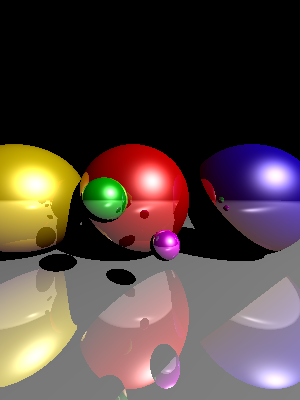
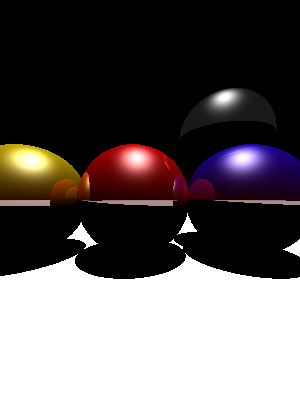
added

diff --git a/computer_graphics/ray_tracer_python/rt.py b/computer_graphics/ray_tracer_python/rt.py
@@ -1,12 +1,40 @@
 import numpy as np
 import matplotlib.pyplot as plt
 
-def normalize(vector):
-    return vector / np.linalg.norm(vector)
+
+class Sphere:
+  def __init__(self, center=(0.0, 0.0, 0.0), radius=1.0, ambient=(0.1, 0, 0), diffuse=(1, 1, 1), specular=(1, 1, 1), shininess=100, reflection=0.5):
+      self.center = np.array(list(center))
+      self.radius = radius 
+      self.ambient = np.array(list(ambient))
+      self.diffuse = np.array(list(diffuse))
+      self.specular = np.array(list(specular))
+      self.shininess = shininess
+      self.reflection = reflection
+
+  def __str__(self): pass 
+
+  @staticmethod
+  def run_tests(): pass 
 
 
-def reflected(vector, axis):
-    return vector - 2 * np.dot(vector, axis) * axis
+class Light:
+  def __init__(self, position=(0.0, 0.0, 0.0), ambient=(1, 1, 1), diffuse=(1, 1, 1), specular=(1, 1, 1)):
+      self.position = np.array(list(position))
+      self.ambient = np.array(list(ambient))
+      self.diffuse = np.array(list(diffuse))
+      self.specular = np.array(list(specular))
+
+  def __str__(self): pass 
+
+  @staticmethod
+  def run_tests(): pass 
+
+
+def normalize(vector): return vector / np.linalg.norm(vector)
+
+
+def reflected(vector, axis): return vector - 2 * np.dot(vector, axis) * axis
 
 
 def sphere_intersect(center, radius, ray_origin, ray_direction):
@@ -22,7 +50,15 @@ def sphere_intersect(center, radius, ray_origin, ray_direction):
 
 
 def nearest_intersected_object(objects, ray_origin, ray_direction):
-    distances = [sphere_intersect(obj['center'], obj['radius'], ray_origin, ray_direction) for obj in objects]
+    li = [1, 2, 3, 4]
+    li2 = []
+    for i in range(1, 5): 
+        li2.append(i) 
+    li3 = [x for x in range(1, 5)]
+    li4 = [x * x for x in range(1, 5)]   #  square of numbers from 1 to 4
+    li5 = [(x, x * x) for x in range(1, 5)]   # tuple of (x, x * x) for x from 1 to 4
+
+    distances = [sphere_intersect(obj.center, obj.radius, ray_origin, ray_direction) for obj in objects]
     nearest_object = None
     min_distance = np.inf
     for index, distance in enumerate(distances):
@@ -30,95 +66,105 @@ def nearest_intersected_object(objects, ray_origin, ray_direction):
             min_distance = distance
             nearest_object = objects[index]
     return nearest_object, min_distance
-class Sphere:
-    def __init__(self, center=(0.0, 0.0, 0.0), radius = 1.0, ambient = (0.1, 0, 0), diffuse, specular= (1, 1, 1), shininess, reflection):
-        self.center = np.array(list(center))
-        self.radius = radius
-        self.ambient = np.array(list(ambient))
-        self.diffuse = np.array(list(diffuse))
-        self.specular = np.array(list(specular))
-        self.shininess = shininess
-        self.reflection = reflection
-        pass
-#every python function gets a list a dictionary list of unamed parameters and dictionary of named parameters
-def ray_tracer(width=300, height =200):
 
-    max_depth = 3
 
-    camera = np.array([0, 0, 1])
-    ratio = float(width) / height
-    screen = (-1, 1 / ratio, 1, -1 / ratio) # left, top, right, bottom
+def ray_trace(width=300, height=200):
+  max_depth = 3
 
-    light = { 'position': np.array([5, 5, 5]), 'ambient': np.array([1, 1, 1]), 'diffuse': np.array([1, 1, 1]), 'specular': np.array([1, 1, 1]) }
+  camera = np.array([0, 0, 1])
+  ratio = float(width) / height
+  screen = (-1, 1 / ratio, 1, -1 / ratio) # left, top, right, bottom
 
-    objects = [
-        { 'center': np.array([-0.2, 0, -1]), 'radius': 0.7, 'ambient': np.array([0.1, 0, 0]), 'diffuse': np.array([0.7, 0, 0]), 'specular': np.array([1, 1, 1]), 'shininess': 100, 'reflection': 0.5 },
-        { 'center': np.array([1.2, 0, -1]), 'radius': 0.7, 'ambient': np.array([0.1, 0, 0]), 'diffuse': np.array([0.0, 0, 0.7]), 'specular': np.array([1, 1, 1]), 'shininess': 100, 'reflection': 0.5 },
-        { 'center': np.array([-1.6, 0, -1]), 'radius': 0.7, 'ambient': np.array([0.1, 0, 0]), 'diffuse': np.array([0.7, 0.7, 0]), 'specular': np.array([1, 1, 1]), 'shininess': 100, 'reflection': 0.5 },
+  light2 = Light(position=(5, 5, 5))
 
-        { 'center': np.array([0.1, -0.3, 0]), 'radius': 0.1, 'ambient': np.array([0.1, 0, 0.1]), 'diffuse': np.array([0.7, 0, 0.7]), 'specular': np.array([1, 1, 1]), 'shininess': 100, 'reflection': 0.5 },
-        { 'center': np.array([-0.3, 0, 0]), 'radius': 0.15, 'ambient': np.array([0, 0.1, 0]), 'diffuse': np.array([0, 0.6, 0]), 'specular': np.array([1, 1, 1]), 'shininess': 100, 'reflection': 0.5 },
-        { 'center': np.array([0, -9000, 0]), 'radius': 9000 - 0.7, 'ambient': np.array([0.1, 0.1, 0.1]), 'diffuse': np.array([0.6, 0.6, 0.6]), 'specular': np.array([1, 1, 1]), 'shininess': 100, 'reflection': 0.5 }
-    ]
 
-    image = np.zeros((height, width, 3))
-    print(f"{height} lines ", end=' ', flush=True)
-    for i, y in enumerate(np.linspace(screen[1], screen[3], height)):
-        for j, x in enumerate(np.linspace(screen[0], screen[2], width)):
-            # screen is on origin
-            pixel = np.array([x, y, 0])
-            origin = camera
-            direction = normalize(pixel - origin)
+  objects2 = [
+      Sphere(center=(-0.2, 0, -1), radius=0.7, diffuse=(0.7, 0, 0)),
 
-            color = np.zeros((3))
-            reflection = 1
+      Sphere(center=(1.2, 0, -1), radius=0.7, diffuse=(0, 0, 0.7)),
+      Sphere(center=( -1.6, 0, -1), radius=0.7, diffuse=(0.7, 0.7, 0)),
+      Sphere(center=(1.2, 1, -1.5), radius=0.7, diffuse=(0., 0., 0.), ambient=(0.1, 0.1, 0.1)),
 
-            for k in range(max_depth):
-                # check for intersections
-                nearest_object, min_distance = nearest_intersected_object(objects, origin, direction)
-                if nearest_object is None:
-                    break
+      Sphere(center=(9, -9000, 0), radius = 9000 - 0.7, ambient=(0.1, 0.1, 0.1))
+      
 
-                intersection = origin + min_distance * direction
-                normal_to_surface = normalize(intersection - nearest_object['center'])
-                shifted_point = intersection + 1e-5 * normal_to_surface
-                intersection_to_light = normalize(light['position'] - shifted_point)
+  ]
 
-                _, min_distance = nearest_intersected_object(objects, shifted_point, intersection_to_light)
-                intersection_to_light_distance = np.linalg.norm(light['position'] - intersection)
-                is_shadowed = min_distance < intersection_to_light_distance
+#   objects = [
+#       { 'center': np.array([-0.2, 0, -1]), 'radius': 0.7, 'ambient': np.array([0.1, 0, 0]), 'diffuse': np.array([0.7, 0, 0]), 'specular': np.array([1, 1, 1]), 'shininess': 100, 'reflection': 0.5 },
 
-                if is_shadowed:
-                    break
+#       { 'center': np.array([  1.2, 0, -1]), 'radius': 0.7, 'ambient': np.array([0.1, 0, 0]), 'diffuse': np.array([0, 0, 0.7]), 'specular': np.array([1, 1, 1]), 'shininess': 100, 'reflection': 0.5 },
+#       { 'center': np.array([ -1.6, 0, -1]), 'radius': 0.7, 'ambient': np.array([0.1, 0, 0]), 'diffuse': np.array([0.7, 0.7, 0]), 'specular': np.array([1, 1, 1]), 'shininess': 100, 'reflection': 0.5 },
+#       { 'center': np.array([  1.2, 0, -2.4]), 'radius': 0.7, 'ambient': np.array([0.1, 0, 0]), 'diffuse': np.array([0, 0.7, 0.7]), 'specular': np.array([1, 1, 1]), 'shininess': 100, 'reflection': 0.5 },
+#       { 'center': np.array([  1.2, 0,  0.4]), 'radius': 0.7, 'ambient': np.array([0.1, 0, 0]), 'diffuse': np.array([0.7, 0, 0.7]), 'specular': np.array([1, 1, 1]), 'shininess': 100, 'reflection': 0.5 },
 
-                illumination = np.zeros((3))
+#       { 'center': np.array([0.1, -0.3, 0]), 'radius': 0.1, 'ambient': np.array([0.1, 0, 0.1]), 'diffuse': np.array([0.7, 0, 0.7]), 'specular': np.array([1, 1, 1]), 'shininess': 100, 'reflection': 0.5 },
+#       { 'center': np.array([-0.3, 0, 0]), 'radius': 0.15, 'ambient': np.array([0, 0.1, 0]), 'diffuse': np.array([0, 0.6, 0]), 'specular': np.array([1, 1, 1]), 'shininess': 100, 'reflection': 0.5 },
+#       { 'center': np.array([0, -9000, 0]), 'radius': 9000 - 0.7, 'ambient': np.array([0.1, 0.1, 0.1]), 'diffuse': np.array([0.6, 0.6, 0.6]), 'specular': np.array([1, 1, 1]), 'shininess': 100, 'reflection': 0.5 }
+#   ]
 
-                # ambient
-                illumination += nearest_object['ambient'] * light['ambient']
+  image = np.zeros((height, width, 3))
+  print(f'{height} lines... ', end=' ', flush=True)
 
-                # diffuse
-                illumination += nearest_object['diffuse'] * light['diffuse'] * np.dot(intersection_to_light, normal_to_surface)
+  for i, y in enumerate(np.linspace(screen[1], screen[3], height)):
+      for j, x in enumerate(np.linspace(screen[0], screen[2], width)):
+          # screen is on origin
+          pixel = np.array([x, y, 0])
+          origin = camera
+          direction = normalize(pixel - origin)
 
-                # specular
-                intersection_to_camera = normalize(camera - intersection)
-                H = normalize(intersection_to_light + intersection_to_camera)
-                illumination += nearest_object['specular'] * light['specular'] * np.dot(normal_to_surface, H) ** (nearest_object['shininess'] / 4)
+          color = np.zeros((3))
+          reflection = 1
 
-                # reflection
-                color += reflection * illumination
-                reflection *= nearest_object['reflection']
+          for k in range(max_depth):
+              # check for intersections
+              nearest_object, min_distance = nearest_intersected_object(objects2, origin, direction)
+              if nearest_object is None:
+                  break
 
-                origin = shifted_point
-                direction = reflected(direction, normal_to_surface)
+              intersection = origin + min_distance * direction
+              normal_to_surface = normalize(intersection - nearest_object.center)
+              shifted_point = intersection + 1e-5 * normal_to_surface
+              intersection_to_light = normalize(light2.position - shifted_point)
 
-            image[i, j] = np.clip(color, 0, 1)
-        if (i + 1) % (height/10) == 0: #does it every 20
-            print(i+1, end= ' ', flush=True) #flush prints to memory buffer until it sees newline flushes buffer everytime so like every 20 and end ='' should make it space instead of newline
+              _, min_distance = nearest_intersected_object(objects2, shifted_point, intersection_to_light)
+              intersection_to_light_distance = np.linalg.norm(light2.position - intersection)
+              is_shadowed = min_distance < intersection_to_light_distance
 
-    plt.imsave('image.png', image) 
+              if is_shadowed:
+                  break
+
+              illumination = np.zeros((3))
+
+              # ambient       nearest_object.ambient    * light2.ambient
+              illumination += nearest_object.ambient * light2.ambient
+              
+              #diffuse
+              illumination += nearest_object.diffuse * light2.diffuse * np.dot(intersection_to_light, normal_to_surface)
+
+              # specular
+              intersection_to_camera = normalize(camera - intersection)
+              H = normalize(intersection_to_light + intersection_to_camera)
+              illumination += nearest_object.specular * light2.specular * np.dot(normal_to_surface, H) ** (nearest_object.shininess / 4)
+
+              # reflection
+              color += reflection * illumination
+              reflection *= nearest_object.reflection
+
+              origin = shifted_point
+              direction = reflected(direction, normal_to_surface)
+
+          image[i, j] = np.clip(color, 0, 1)
+      if (i + 1) % (height / 10) == 0:
+        print(i + 1, end=' ', flush=True)
+
+  # plt.show(image)
+  plt.imsave('image.png', image)
+
 
 def main():
-    ray_tracer(height=400)
+    ray_trace(height=400)
+
 
 if __name__ == '__main__':
     main()
